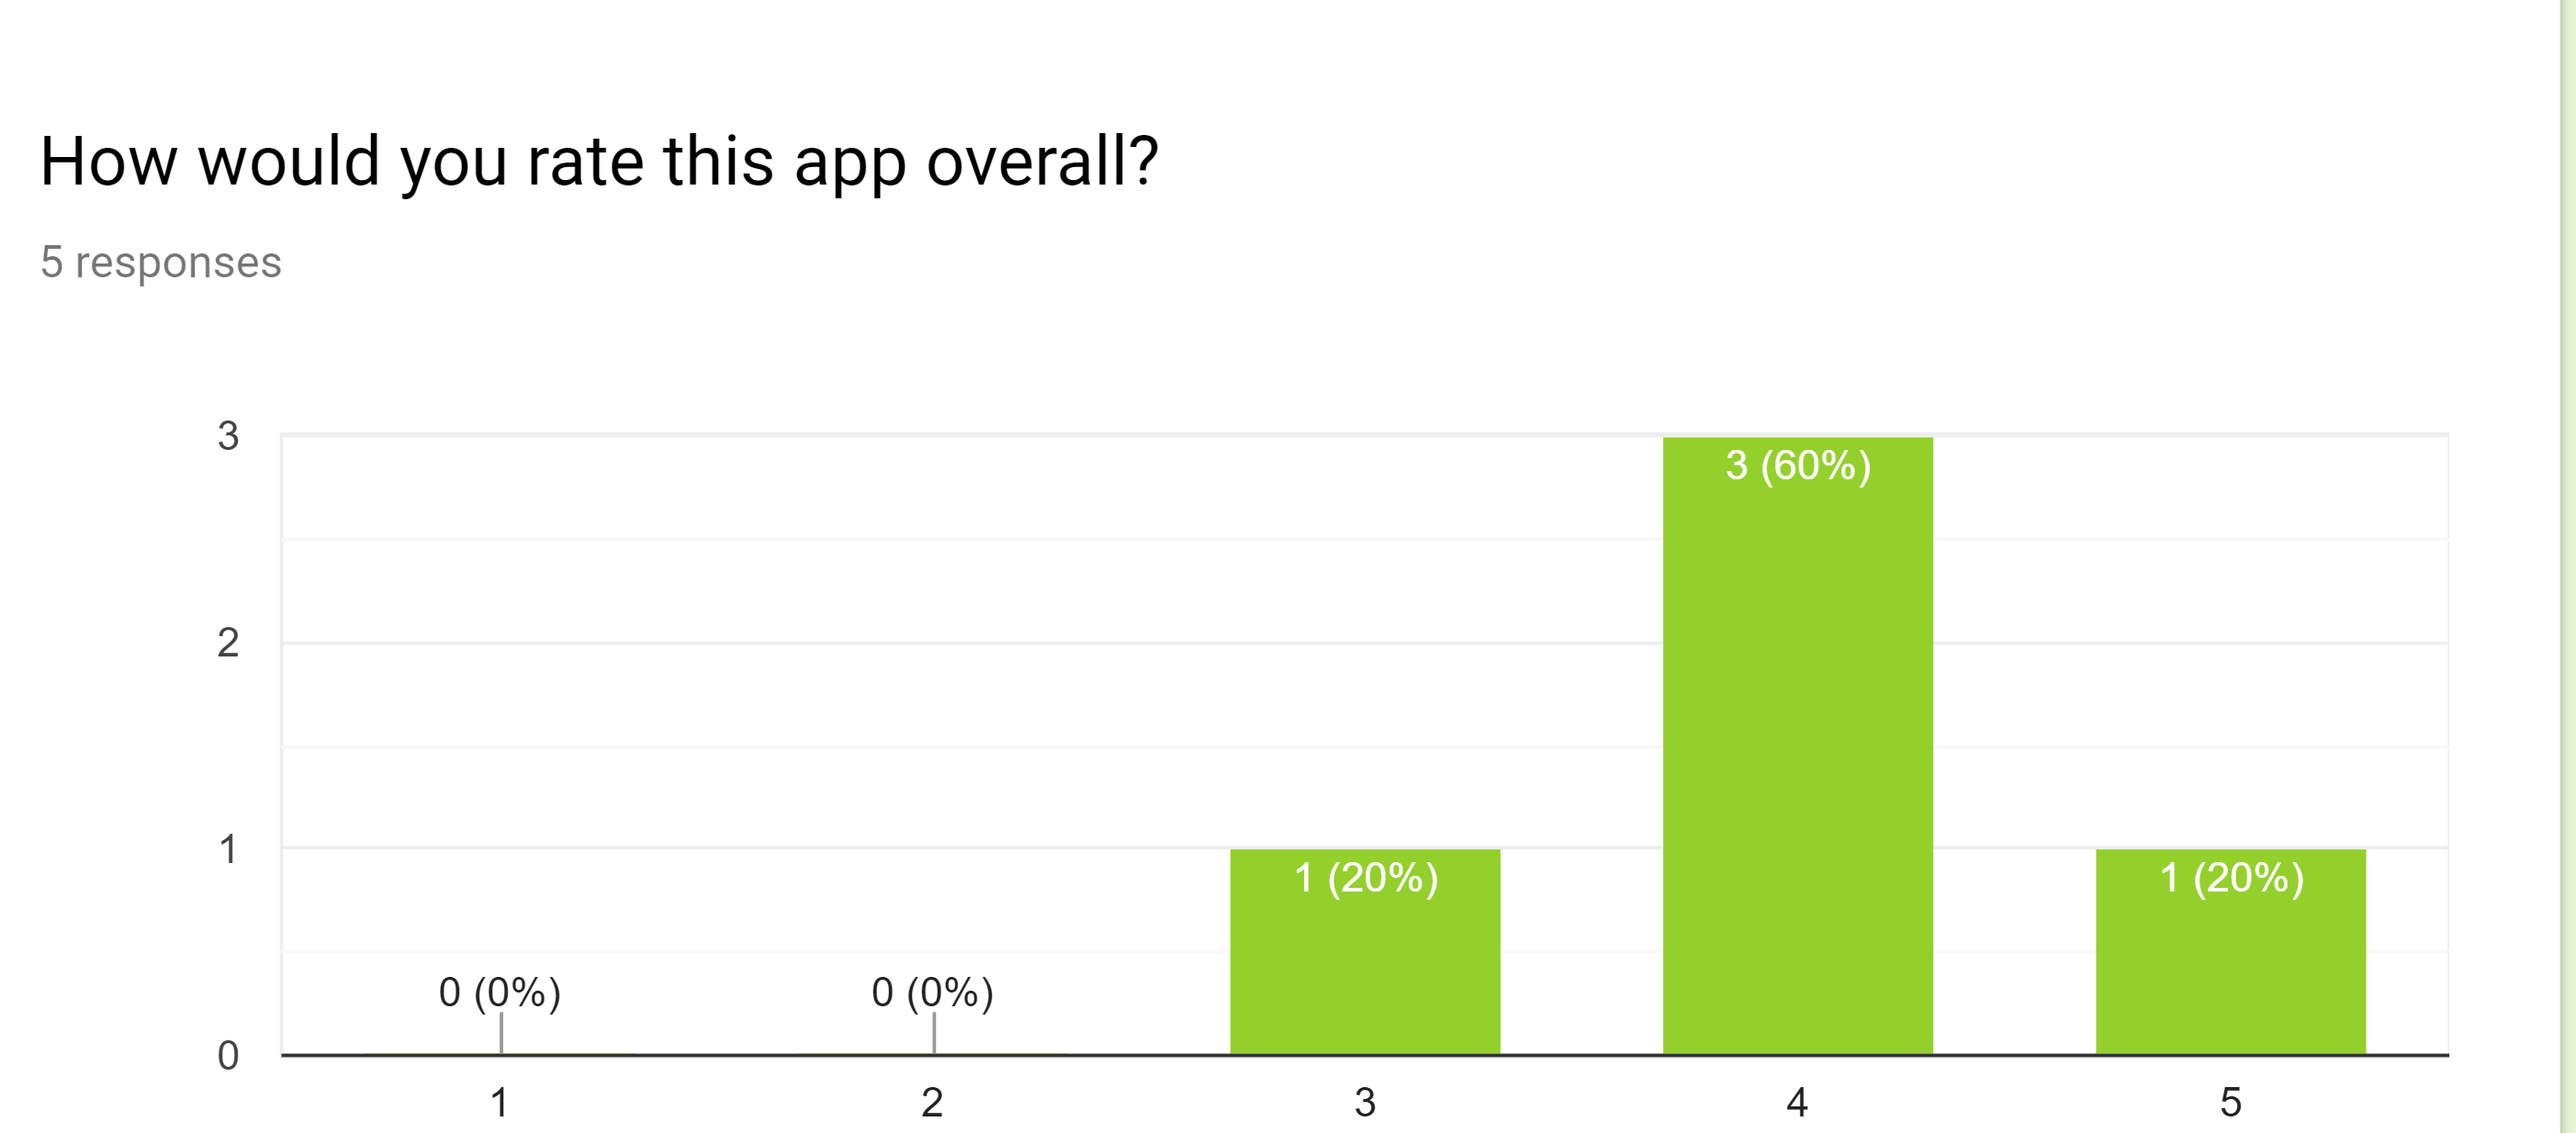
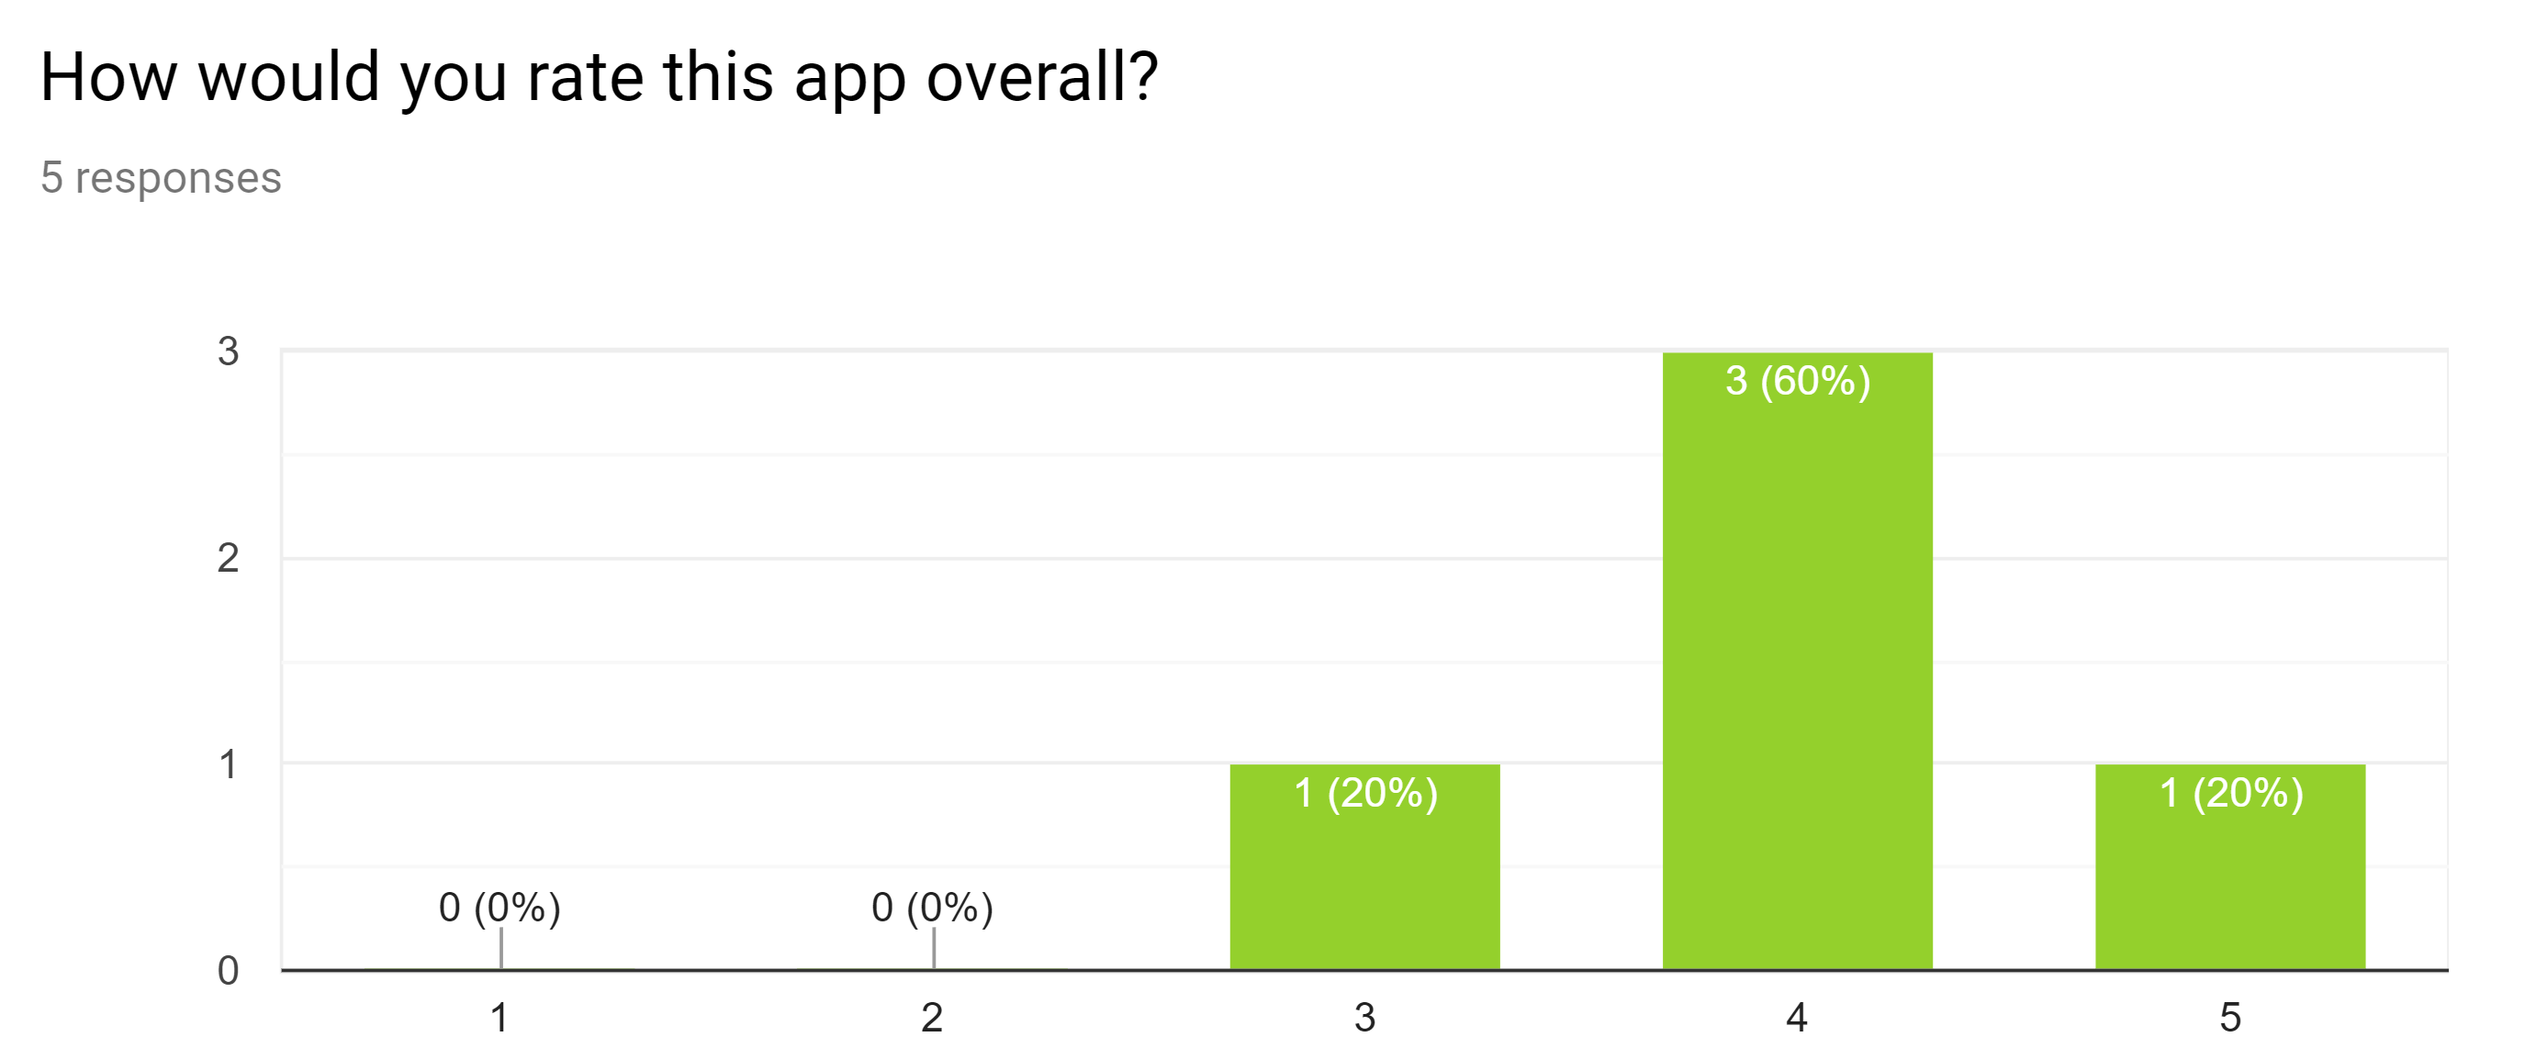
edit pic

diff --git a/index.md b/index.md
@@ -158,12 +158,12 @@ We took 5 members of the UH community and asked them to make accounts to test ou
 *All respondents said they would use the app a few times a week to a few times a month and most of them said the app has the potential to alleviate hangriness on our campus.*
 
 <br>
-<img style="width: 50%" src="doc/pros.png">
-<img style="width: 50%" src="doc/cons.png">
+<img style="width: 100%" src="doc/pros.png">
+<img style="width: 100%" src="doc/cons.png">
 <br>
 *Here are some of the pros and cons listed by our community members.*
 <br>
-<img style="width: 70%" src="doc/overall.png">
+<img style="width: 100%" src="doc/overall.png">
 
 
 <hr>
